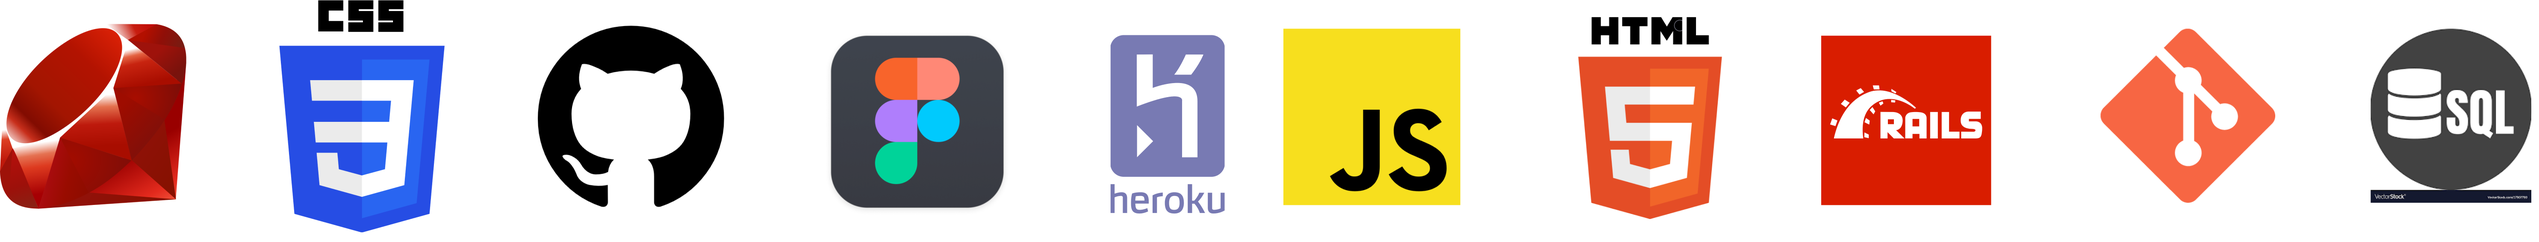
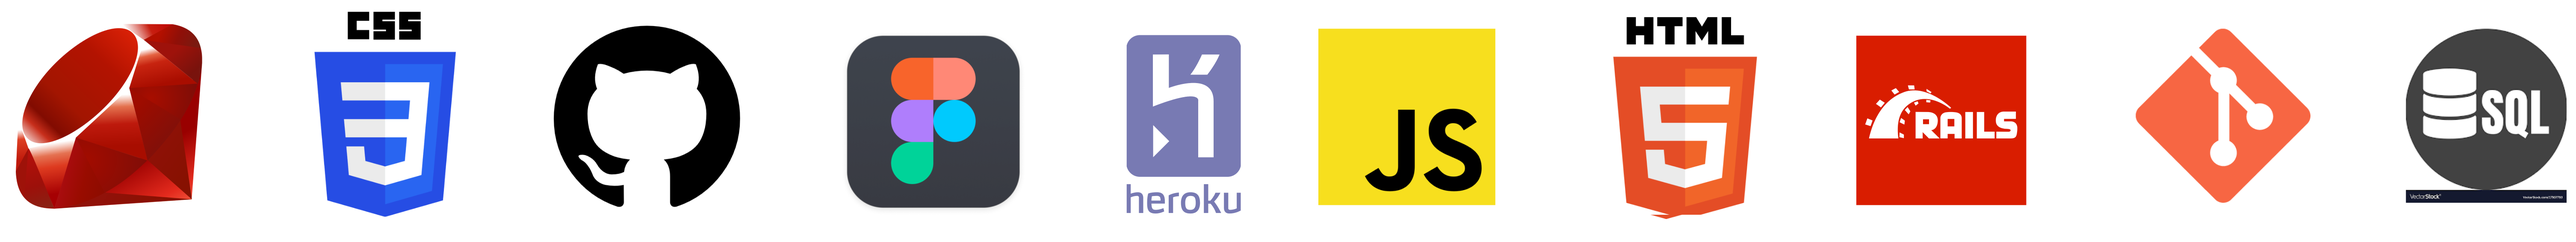
edited the tech stack image for smoother look

diff --git a/app/assets/stylesheets/pages/_home.scss b/app/assets/stylesheets/pages/_home.scss
@@ -77,7 +77,8 @@ z-index: -1;
 
 .main1 img {
   display: flex;
-  margin-left: 110px;
+  margin-left: 115px;
+  border-radius: 10px;
   width: 90vw;
   height: 100px;
   background-color: rgba(255, 255, 255, 0.5);
